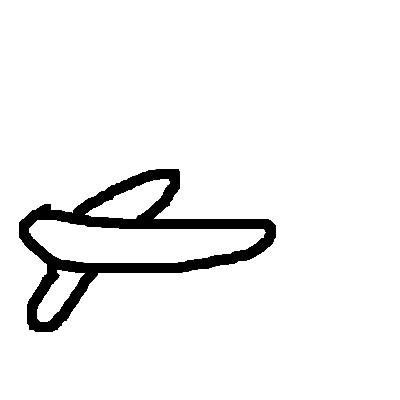
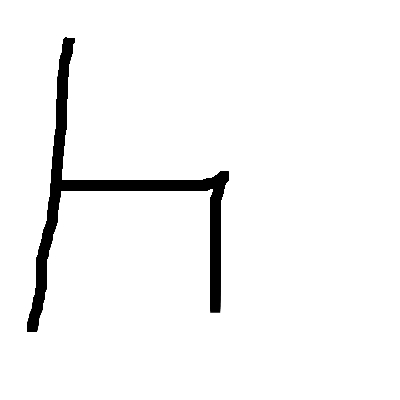
added validation data

Changed region(s): [[0.03, 0.09, 0.69, 0.84]]

diff --git a/train_model.py b/train_model.py
@@ -1,5 +1,6 @@
 import numpy as np
 import os
+from sklearn.model_selection import train_test_split
 from tqdm import tqdm
 
 from keras.models import Sequential
@@ -45,6 +46,7 @@ def train_save_models() :
     np.random.shuffle(indexes)
     X_train = X_train[indexes]
     y_train = y_train[indexes]
+    X_train, X_test, y_train, y_test = train_test_split(X_train, y_train, test_size=0.2)
     X_train = X_train.reshape(-1, 28, 28, 1)
 
     # Model
@@ -57,7 +59,7 @@ def train_save_models() :
             metrics = ["accuracy"] # Connaître la performance du modèle, cb de prédictions correctes
         )
 
-        model.fit(X_train, y_train, epochs=10) # on explore 10 fois le dataset
+        model.fit(X_train, y_train, epochs=10, validation_data = (X_test, y_test)) # on explore 10 fois le dataset
         model.save(f'models/{model.name}.keras')
     
     
